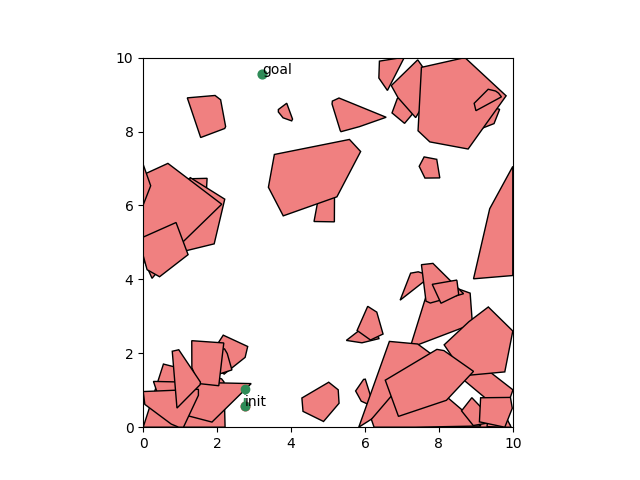
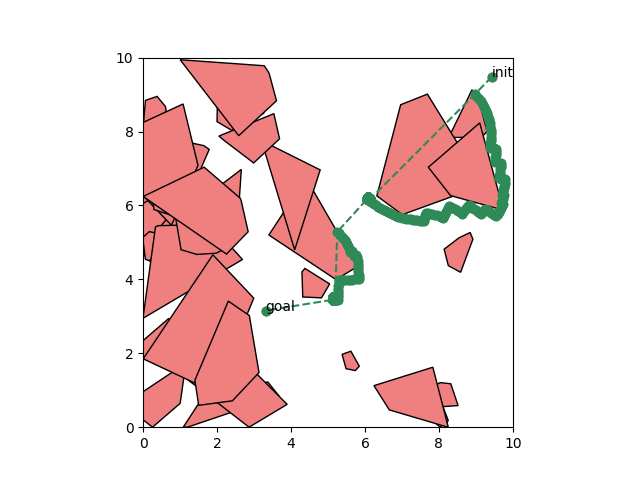
Final bug 1 with visuals but lower benchmark

Changed region(s): [[0.2188, 0.125, 0.8125, 0.9062]]

diff --git a/ws/hw2/MyBugAlgorithm.cpp b/ws/hw2/MyBugAlgorithm.cpp
@@ -18,6 +18,7 @@ constexpr double MyBugAlgorithm::GOAL_BIAS_EPS;
 constexpr double MyBugAlgorithm::MIN_LOOP_ARC;
 constexpr int    MyBugAlgorithm::MAX_OUTER_ITERS;
 constexpr int    MyBugAlgorithm::MAX_WALK_STEPS;
+constexpr bool   MyBugAlgorithm::APPEND_FULL_SURVEY_TO_PATH;
 
 // ===== Small helpers =====
 namespace {
@@ -35,6 +36,13 @@ namespace {
     }
     inline void pushUnique(std::vector<Vec2>& poly, const Vec2& q, double tol = 1e-9) {
         if (poly.empty() || (poly.back() - q).norm() > tol) poly.push_back(q);
+    }
+
+    // Optional: lightly decimate a polyline by distance threshold
+    void appendPolyline(std::vector<Vec2>& W, const std::vector<Vec2>& P, double keep = 0.03) {
+        for (const auto& p : P) {
+            if (W.empty() || (p - W.back()).norm() > keep) W.push_back(p);
+        }
     }
 
     // ===== Boolean collision layer (planner never iterates vertices to decide) =====
@@ -116,7 +124,7 @@ MyBugAlgorithm::checkSensor(const Vec2& pos, const Vec2& dir, double range,
                 double mid = 0.5*(lo+hi);
                 Vec2 m = a + u*mid;
                 if (freeSeg(a, m, obstacles)) lo = mid; else hi = mid;
-                if (hi - lo < CONTACT_TOL) break;
+                if (hi - lo < MyBugAlgorithm::CONTACT_TOL) break;
             }
             out.found    = true;
             out.distance = (STEP_SIZE * i) + lo;
@@ -153,7 +161,7 @@ MyBugAlgorithm::performBug1WallFollow(const Vec2& hit_point,
     const int    MIN_STEPS_BEFORE_CLOSE = 120; // stricter than before
     const double H_CORR_GAIN            = 0.20;
 
-    // *** new: robust loop-completion guards ***
+    // robust loop-completion guards
     double loop_len = 0.0;                 // arc length walked
     double cum_turn = 0.0;                 // cumulative signed heading change (≈ 2π for a loop)
     double last_th  = angOf(hd);
@@ -249,6 +257,11 @@ amp::Path2D MyBugAlgorithm::plan(const amp::Problem2D& problem) {
         Vec2 initial_heading_right = turn_right * unit(toGoal);
         auto survey = performBug1WallFollow(hit, initial_heading_right, problem);
 
+        // **OPTIONAL VISUALIZATION**: draw the full surveyed loop
+        if (APPEND_FULL_SURVEY_TO_PATH) {
+            appendPolyline(W, survey.discovery_path, 0.02); // light decimation
+        }
+
         // If L* is not a genuine improvement, Bug-1 declares blocked
         if (dist(hit, problem.q_goal) - dist(survey.closest_point_to_goal, problem.q_goal) < IMPROVE_MIN) {
             break;
@@ -278,7 +291,7 @@ amp::Path2D MyBugAlgorithm::plan(const amp::Problem2D& problem) {
             for (size_t i=0; i<=j && i<N; ++i) pushUnique(W, loop[i]);
         } else {
             for (size_t i=j; i<N; ++i)        pushUnique(W, loop[i]);
-            if ((W.back() - loop.front()).norm() > 1e-9) pushUnique(W, loop.front()); // visual continuity
+            if ((W.back() - loop.front()).norm() > 1e-9) pushUnique(W, loop.front()); // continuity
         }
         pushUnique(W, Lstar);
         cur = Lstar;

diff --git a/ws/hw2/MyBugAlgorithm.h b/ws/hw2/MyBugAlgorithm.h
@@ -30,6 +30,11 @@ private:
     static constexpr int    MAX_OUTER_ITERS    = 1800;
     static constexpr int    MAX_WALK_STEPS     = 250000;
 
+    // *** Visualization switch ***
+    // true  -> also append the full surveyed loop (hit→…→near hit) to the path
+    // false -> only walk the shorter arc to L* (better for grading)
+    static constexpr bool   APPEND_FULL_SURVEY_TO_PATH = true;
+
     // ---------- Sensor output ----------
     struct SensorHit {
         bool   found    = false;                                      // hit along ray?
